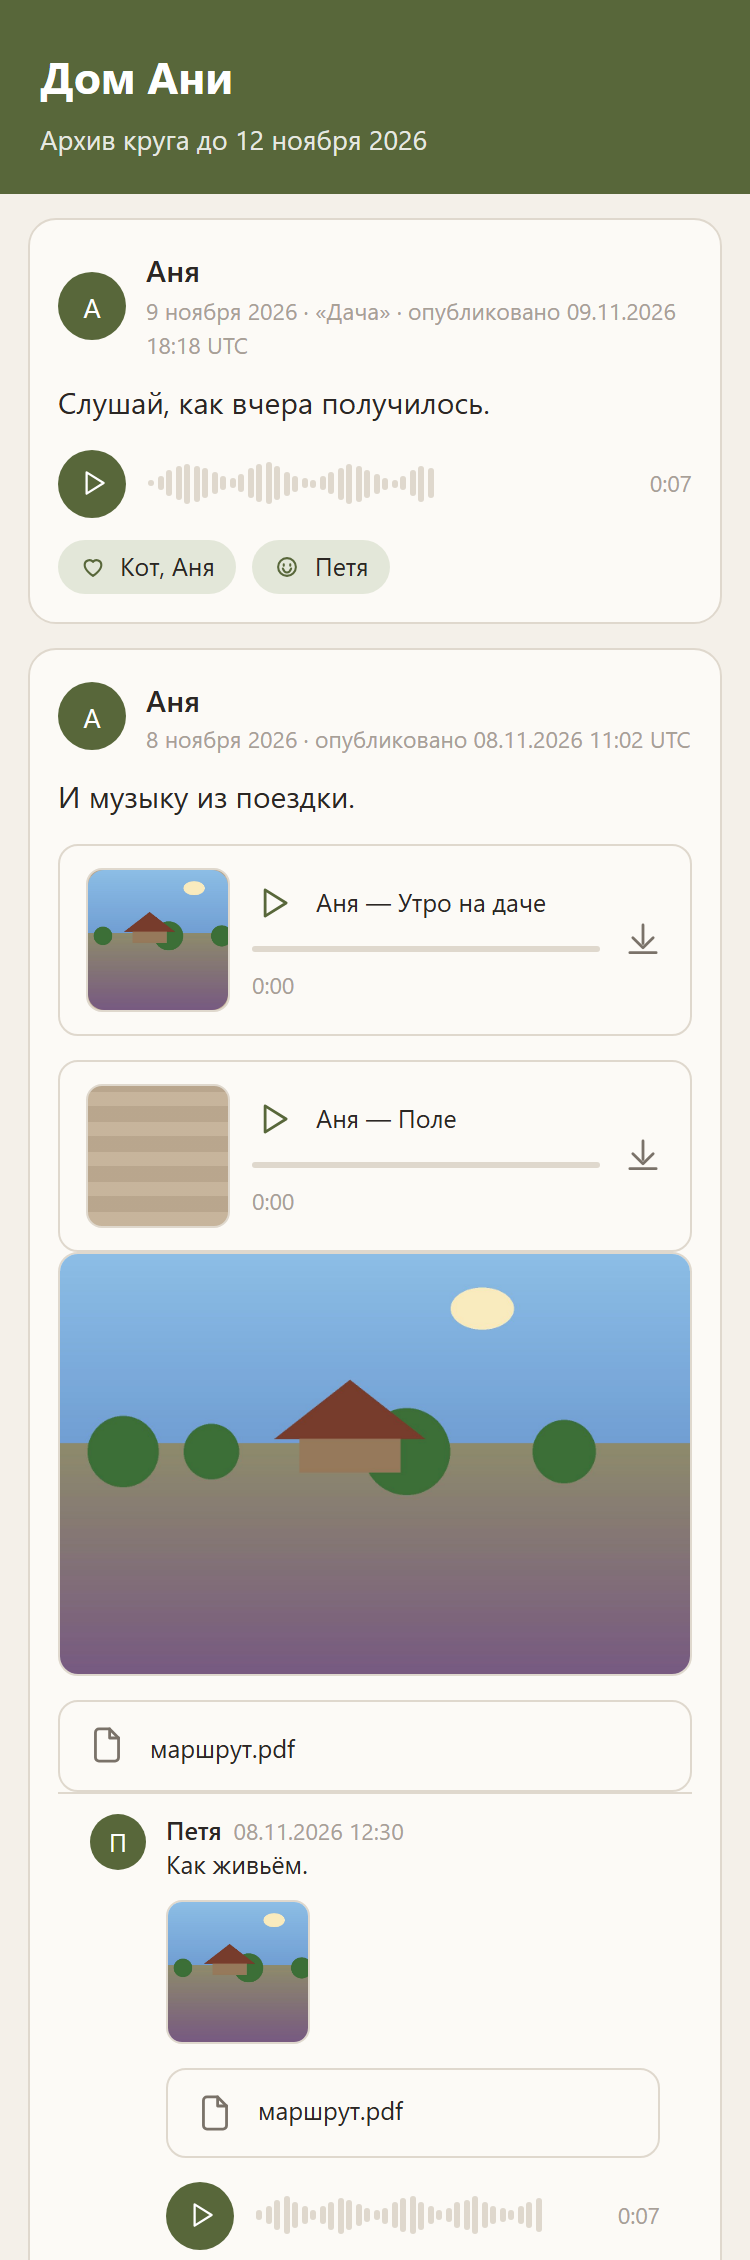
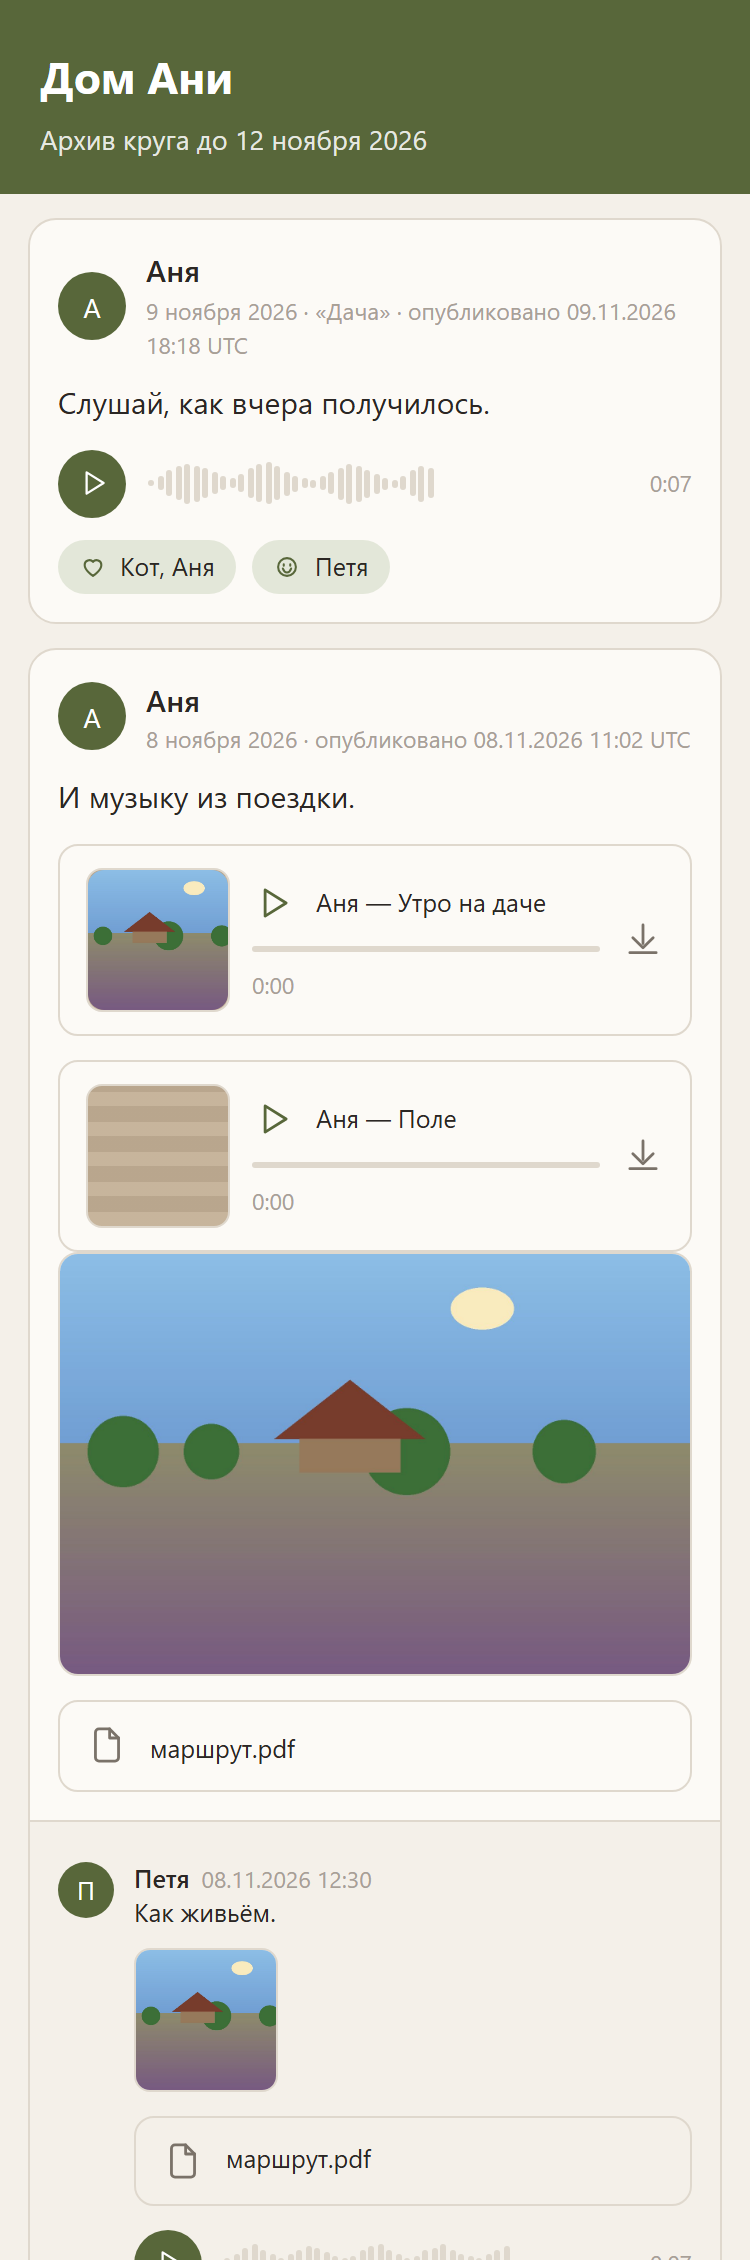
A26: комментарии в карточке .cm — строки не наезжают на запись

Changed region(s): [[0.0613, 0.8053, 0.736, 1.0], [0.8893, 0.9912, 0.92, 1.0], [0.828, 0.9602, 0.8587, 0.9912]]

diff --git a/internal/archive/archive_style_parity_test.go b/internal/archive/archive_style_parity_test.go
@@ -32,8 +32,10 @@ import (
 //
 // После выравнивания A26 (2026-11-13) известные отличия остались трёх родов:
 // настольный масштаб текста (решение владельца), перенос чипов откликов
-// (в архиве все отклики истории, приложение .rx не переносит) и имя файла
-// в карточке .att (в приложении inline-стиль 12.5 px, в архиве класс .fname).
+// (в архиве все отклики истории, приложение .rx не переносит), имя файла
+// в карточке .att (в приложении inline-стиль 12.5 px, в архиве класс .fname)
+// и строки комментариев внутри карточки .cm: вертикальный отступ от .cmt,
+// по горизонтали — как у .cm-line приложения (padding 0, поля даёт .cm).
 type styleParity struct {
 	name  string
 	arch  []string
@@ -89,6 +91,8 @@ var archiveStyleParity = []styleParity{
 	{"чип отклика", []string{".rx .one"}, []string{".rx .one"}, []string{"background", "border-radius", "padding", "font-size", "display", "gap", "align-items"}, nil, ""},
 	{"значок в чипе отклика", []string{".rx .one .ic"}, []string{".ic", ".ic.xs"}, []string{"width", "height", "stroke-width"}, nil, ""},
 	{"строка комментария", []string{".cmt"}, []string{".cmt"}, []string{"display", "align-items", "gap", "padding"}, nil, ""},
+	{"карточка комментариев", []string{".cm"}, []string{".cm"}, []string{"margin", "padding", "font-size", "background", "border", "border-top", "border-radius", "overflow-wrap", "display", "box-sizing", "width", "text-align"}, nil, ""},
+	{"запись с карточкой комментариев", []string{".post:has(+ .cm)"}, []string{".post:has(+ .cm)"}, []string{"margin-bottom", "border-radius"}, nil, ""},
 	{"текст комментария", []string{".cmt .g"}, []string{".cmt .g"}, []string{"flex", "min-width", "font-size", "line-height", "overflow-wrap"}, nil, ""},
 	{"шапка комментария", []string{".cmt .who"}, []string{".cmt .who"}, []string{"display", "align-items", "gap", "line-height"}, nil, ""},
 	{"имя комментария", []string{".cmt .who b"}, []string{".cmt .who b"}, []string{"font-weight"}, nil, ""},

diff --git a/internal/archive/archive.go b/internal/archive/archive.go
@@ -402,13 +402,15 @@ a{color:inherit;text-decoration:none}
 .rx .one .ic{width:13px;height:13px;stroke-width:1.9;color:var(--c)}
 .cmt{display:flex;align-items:flex-start;gap:10px;padding:10px 16px}
 .cmt + .cmt{border-top:1px solid var(--line)}
-.thread > .cmt:first-child{border-top:1px solid var(--line)}
 .cmt .av{width:28px;height:28px;font-size:12.5px}
 .cmt .avl{width:28px;height:28px;font-size:12.5px}
 .cmt .g{flex:1;min-width:0;font-size:12.5px;line-height:1.4;overflow-wrap:anywhere}
 .cmt .who{display:flex;align-items:baseline;gap:6px;line-height:1.3}
 .cmt .who b{font-weight:600}
 .cmt .tm{color:var(--faint);font-size:11.5px;font-weight:400}
+.cm{margin:0 14px;padding:10px 14px 12px;font-size:12.5px;background:var(--paper);border:1px solid var(--line);border-top:none;border-radius:0 0 14px 14px;overflow-wrap:anywhere;display:block;box-sizing:border-box;width:calc(100% - 28px);text-align:left}
+.cm .cmt{padding:10px 0}
+.post:has(+ .cm){margin-bottom:0;border-radius:14px 14px 0 0}
 .cmedia{display:flex;flex-direction:column;gap:8px;margin-top:8px}
 .cmedia .att{margin-top:0}
 .cmedia .ctiles{display:flex;gap:6px;flex-wrap:wrap}
@@ -689,10 +691,12 @@ func appendPostHTML(b *strings.Builder, fp chronicle.FeedPost, media, avatars, d
 		}
 		b.WriteString("</div>")
 	}
+	b.WriteString("</article>")
 	if len(fp.Comments) > 0 {
-		// Комментарии — строки .cmt, как на странице записи приложения:
-		// аватар 28 px, имя, время, текст 12.5 px; черта между строками.
-		b.WriteString("<div class=\"thread\">")
+		// Комментарии — бумажная карточка .cm, приклеенная к записи снизу,
+		// как в ленте приложения; внутри все строки .cmt (в ленте
+		// приложения одна строка-превью, в архиве — все, содержание полное).
+		b.WriteString("<div class=\"cm\">")
 		for _, c := range fp.Comments {
 			b.WriteString("<div class=\"cmt\">")
 			appendAvatarHTML(b, c.AuthorName, c.IdentityID, media, avatars, prefix)
@@ -713,7 +717,6 @@ func appendPostHTML(b *strings.Builder, fp chronicle.FeedPost, media, avatars, d
 		}
 		b.WriteString("</div>")
 	}
-	b.WriteString("</article>")
 }
 
 // appendCommentMediaHTML — вложения комментария: снимки плитками .ctile

diff --git a/docs/plans/46-open-questions-and-debt.plan.md b/docs/plans/46-open-questions-and-debt.plan.md
@@ -21,7 +21,7 @@
   - Обсудить, нужно ли гарантированно объединять такие загрузки и как учитывать разные настройки, качество и версии обработки. Рассмотреть дополнительный хеш оригинала, воспроизводимое сжатие и проверяемую связь оригинала с сохранённым результатом; решение не выбрано, реализация не поручена.
   - Хеш оригинала не заменяет хеш сохранённых байтов и не доказывает владение. Сейчас сервер получает сжатый результат и не может проверить заявленный клиентом хеш оригинала. Будущее решение должно сохранять независимые права и метаданные копий, не раскрывать чужие файлы и не позволять подменить содержимое по одному заявленному хешу.
 
-- [ ] **A26. Оформление архива: сверка с приложением (2026-11-12).** Владелец спросил, есть ли тест, что вёрстка читаемого архива такая же, как в приложении. Тест появился — `TestArchiveStylesMatchApp` (внутренний тест `internal/archive`, `archive_style_parity_test.go`): он сверяет стили архива с `tokens.css` и `ui.css` приложения, равное держит на равенстве, а известные отличия записывает у себя. Совпадает: цвета-токены, шрифт Golos, вес имени автора, вся аудиострока (C88). **Решение владельца 2026-11-13: настольный масштаб принимаем** — базовый текст архива 15 px / 1.5 против 13.5 px / 1.45 в приложении остаётся; следствие масштаба — тексты на ступень крупнее (комментарий 14 против 12.5 px / 1.4, дата и время 12.5 против 11.5 px, файл 14 против 12.5 px, отклики 13 против 12.5 px) тоже остаются; аудиостроки — размеры приложения, принятые в C88 на архивном фоне. Остальные расхождения ждут решения: карточка записи — радиус 16 против 14, поля 14/16 против 14, отступ 14/12 против 12/14; аватар 32 против 34 px (буквы — шрифт 14 против 13.5, фон без `--rc`); дата и время записи — muted против faint; текст записи — без `overflow-wrap: anywhere`, отступ сверху 10 px вместо 11 px снизу; фото и ролики записи — радиус 12 без рамки против 10 с рамкой 1 px; медиа комментария — потолок 240 px против колонки с зазором 8 px. Структурно: фото и ролики в архиве столбиком на всю ширину, в приложении — плитки-квадраты; отклики в архиве строкой текста, в приложении — чипсы на фоне `--ct`; комментарии в архиве списком внутри карточки записи, в приложении — отдельная карточка `.cm` на бумажном фоне; файл в архиве ссылкой, в приложении — карточка `.att`. Не сверяются элементы без аналога: шапка, оглавление, «назад», концовка, «Файл недоступен», запасной плеер без JS.
+- [ ] **A26. Оформление архива: сверка с приложением (2026-11-12).** Владелец спросил, есть ли тест, что вёрстка читаемого архива такая же, как в приложении. Тест появился — `TestArchiveStylesMatchApp` (внутренний тест `internal/archive`, `archive_style_parity_test.go`): он сверяет стили архива с `tokens.css` и `ui.css` приложения, равное держит на равенстве, а известные отличия записывает у себя. Совпадает: цвета-токены, шрифт Golos, вес имени автора, вся аудиострока (C88). **Решение владельца 2026-11-13: настольный масштаб принимаем** — базовый текст архива 15 px / 1.5 против 13.5 px / 1.45 в приложении остаётся; следствие масштаба — тексты на ступень крупнее (комментарий 14 против 12.5 px / 1.4, дата и время 12.5 против 11.5 px, файл 14 против 12.5 px, отклики 13 против 12.5 px) тоже остаются; аудиостроки — размеры приложения, принятые в C88 на архивном фоне. **Там же 2026-11-13: «Выравнивай всё по списку» — выровнено в main:** карточка записи (радиус 14, поля 14, отступ 12/14, `overflow-wrap`), аватары 34 px (буквы без жирности), дата faint 11.5 px, текст записи (`overflow-wrap: anywhere`, отступ снизу 11 px), фото и ролики со стилем `.pic` (радиус 10, рамка 1 px), отклики чипами на фоне `--ct` со значками цвета круга, комментарии — бумажной карточкой `.cm`, приклеенной к записи снизу, как в ленте приложения (внутри все строки `.cmt`: аватар 28, имя, время, текст 12.5 px, черты; медиа комментария — плитки 72 × 72; правка после замечания владельца: строки попали внутрь карточки записи и черта наезжала на элементы — вынесено в `.cm`), файл — карточкой `.att`-ссылкой. Кадр и перечень — [docs/testing/a26-archive-alignment-2026-11-13](../testing/a26-archive-alignment-2026-11-13/README.md), **вёрстка ждёт приёмки**. Осталось открытым: фото и ролики записи остались столбиком на всю ширину — плитки-квадраты и обложка «ещё N» меняют компоновку ленты, которую владелец зафиксировал 12 ноября (C73); выравнивать ли и их — отдельное решение. Известные отличия в тесте: настольный масштаб (принят), перенос чипов откликов (в архиве все отклики истории), `.fname` (в приложении inline-стиль), время комментария абсолютной датой. Не сверяются элементы без аналога: шапка, оглавление, «назад», концовка, «Файл недоступен», запасной плеер без JS.
 
 - [ ] **A25. Показ обновления и гашение кнопок — единообразно с Настольным (2026-11-11, подумать).** Владелец: у Мастерской и Настольного обновление показывается и ведёт себя по-разному. В Настольном — полоса поверх интерфейса; после отказа подписи кнопка установки гаснет, «Позже» и «Что нового» остаются. В Мастерской — отдельный экран обновления; после отказа подписи остаётся активная «Попробовать ещё раз». Подумать, привести ли Мастерскую к виду Настольного (полоса и погашенная установка) или Настольный к виду Мастерской (отдельный экран и повтор). Решения нет; до него поведение не менять.
 

diff --git a/docs/testing/a26-archive-alignment-2026-11-13/README.md b/docs/testing/a26-archive-alignment-2026-11-13/README.md
@@ -8,7 +8,7 @@
 - Аватары 34 px, буквы без жирности, дата и время записи 11.5 px faint.
 - Фото и ролики записи: радиус 10 px и рамка 1 px, как у `.pic` приложения. Остались столбиком на всю ширину: плитки-квадраты и обложка «ещё N» меняют компоновку ленты, которую владелец зафиксировал 12 ноября (C73) — вопрос оставлен открытым.
 - Отклики — чипы на тонированном фоне `--ct` со значками цвета круга (значки — из `icons.svg`: heart, laugh, surprise, anger).
-- Комментарии — строками `.cmt`, как на странице записи приложения: аватар 28 px, имя, время, текст 12.5 px, черта между строками; медиа комментария — плитки 72 × 72.
+- Комментарии — бумажная карточка `.cm`, приклеенная к записи снизу, как в ленте приложения; внутри все строки `.cmt` (в ленте приложения одна строка-превью, в архиве — все, содержание полное): аватар 28 px, имя, время, текст 12.5 px, черта между строками; медиа комментария — плитки 72 × 72.
 - Файл записи и комментария — карточкой `.att` со значком файла, вся карточка — ссылка на файл.
 
 Тест паритета `TestArchiveStylesMatchApp` держит выровненное на равенстве; известные отличия — настольный масштаб (принят), перенос чипов откликов, `.fname` (в приложении inline-стиль).
@@ -17,6 +17,8 @@
 
 | Файл | SHA-256 |
 | --- | --- |
[2 lines of base64/hex data omitted]
+
+Правка 2026-11-13 после замечания владельца: строки комментариев были внутри карточки записи, и черта наезжала на элементы записи; теперь это карточка `.cm`, как в ленте приложения.
 
 Записи: [план 46, A26](../../plans/46-open-questions-and-debt.plan.md), CHANGELOG (Unreleased).
